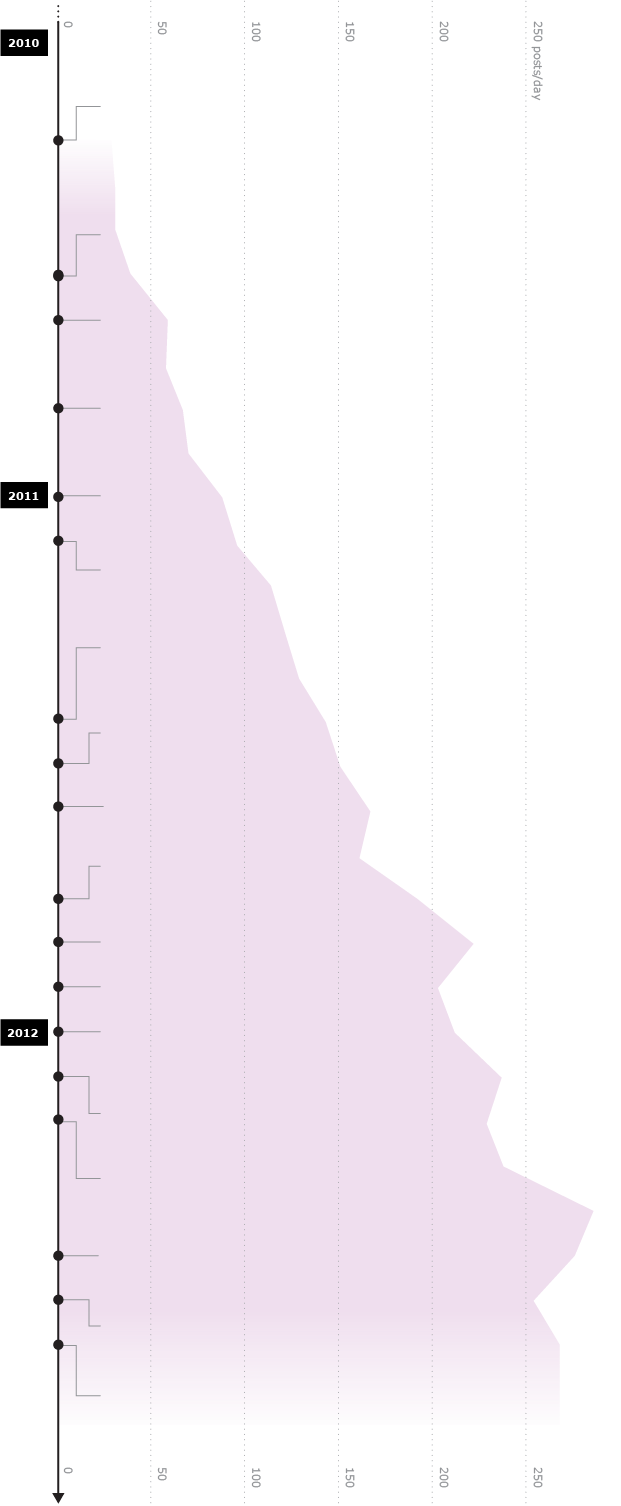
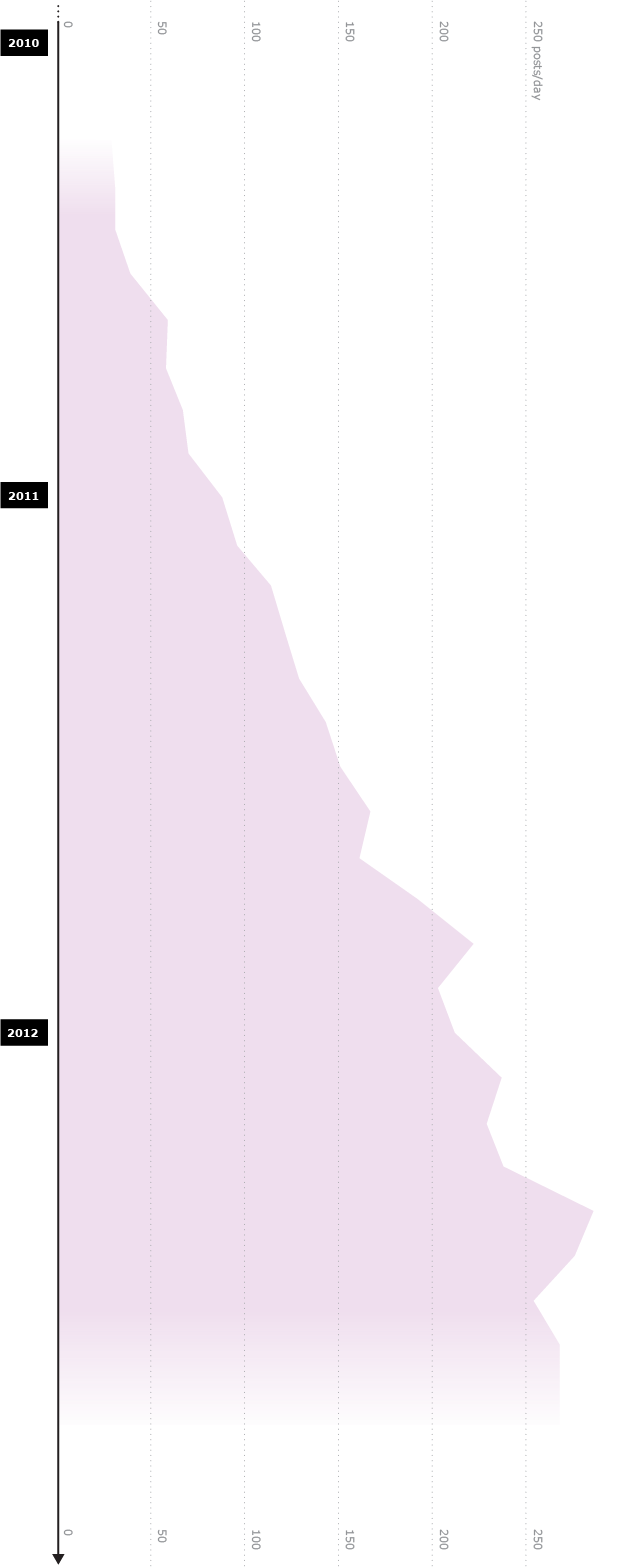
updating backgrounds, adjusting offsets

diff --git a/demo/index.html b/demo/index.html
@@ -25,7 +25,7 @@
 			
 			<p>Lorem ipsum dolor sit amet, consectetur adipisicing elit, sed do eiusmod tempor incididunt ut labore et dolore magna aliqua. Ut enim ad minim veniam, quis nostrud exercitation ullamco laboris nisi ut aliquip ex ea commodo consequat. Duis aute irure dolor in reprehenderit in voluptate velit esse cillum dolore eu fugiat nulla pariatur. Excepteur sint occaecat cupidatat non proident, sunt in culpa qui officia deserunt mollit anim id est laborum.</p>
 			
-			<div data-infostory-name="demo" data-width="620" data-height="1620" data-use-border="false" class="athletics infostory" style="display:none;">
+			<div data-infostory-name="demo" data-width="620" data-height="1700" data-use-border="false" class="athletics infostory" style="display:none;">
 				<div class="i_s_controls">
 					<div class="i_s_bg_switcher">
 						<div data-id="bg1" class="i_s_option i_s_rounded_left">
@@ -707,7 +707,7 @@
 						</div><!--.i_s_body-->
 					</div><!--end .i_s_datapoint-->
 					
-					<div class="i_s_datapoint" data-x="53" data-y="1365" data-offset="30">
+					<div class="i_s_datapoint" data-x="53" data-y="1365" data-offset="25">
 						<div class="i_s_body">
 							<h5>July 2012</h5>
 							<h3>New navigation &amp; sticky ad on phone</h3>
@@ -751,7 +751,7 @@
 						</div><!--.i_s_body-->
 					</div><!--end .i_s_datapoint-->
 					
-					<div class="i_s_datapoint" data-x="53" data-y="1410" data-offset="35">
+					<div class="i_s_datapoint" data-x="53" data-y="1410" data-offset="30">
 						<div class="i_s_body">
 							<h5>August 2012</h5>
 							<h3>New search pages &amp; type-ahead search</h3>
@@ -792,7 +792,7 @@
 						</div><!--.i_s_body-->
 					</div><!--end .i_s_datapoint-->
 					
-					<div class="i_s_datapoint" data-x="53" data-y="1455" data-offset="40">
+					<div class="i_s_datapoint" data-x="53" data-y="1455" data-offset="50">
 						<div class="i_s_body">
 							<h5>September 2012</h5>
 							<h3>Universal Photo Galleries</h3>
